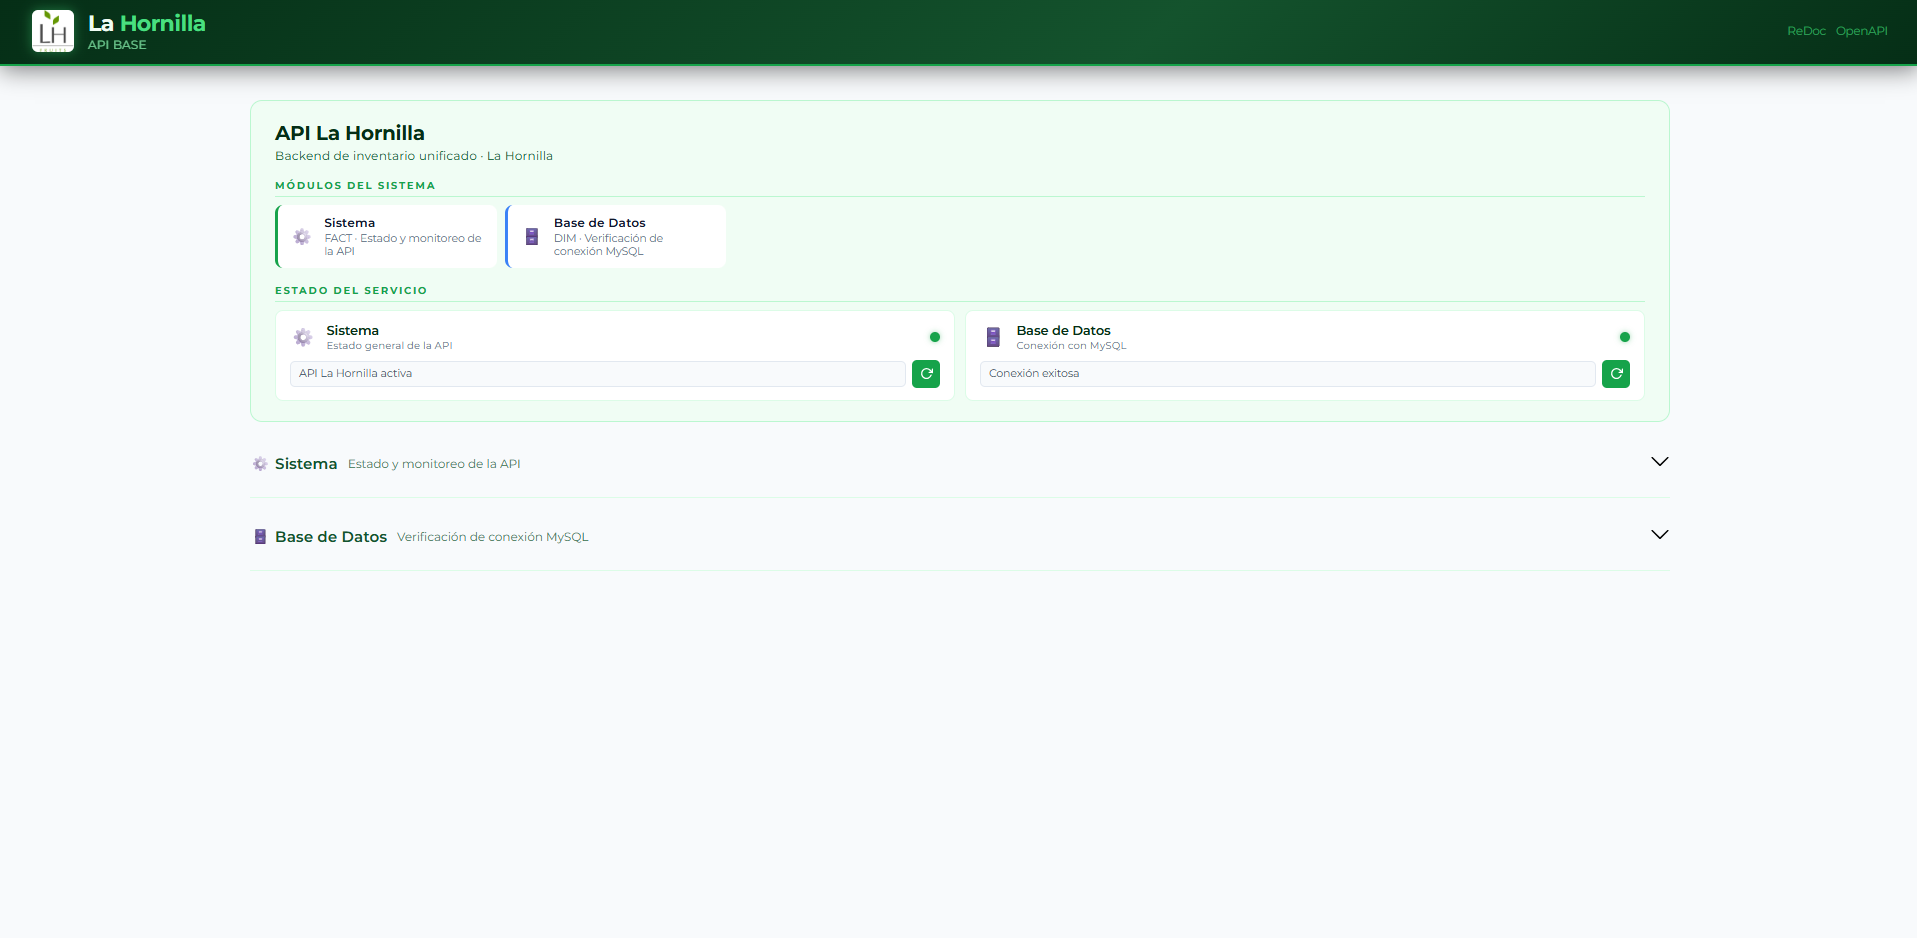
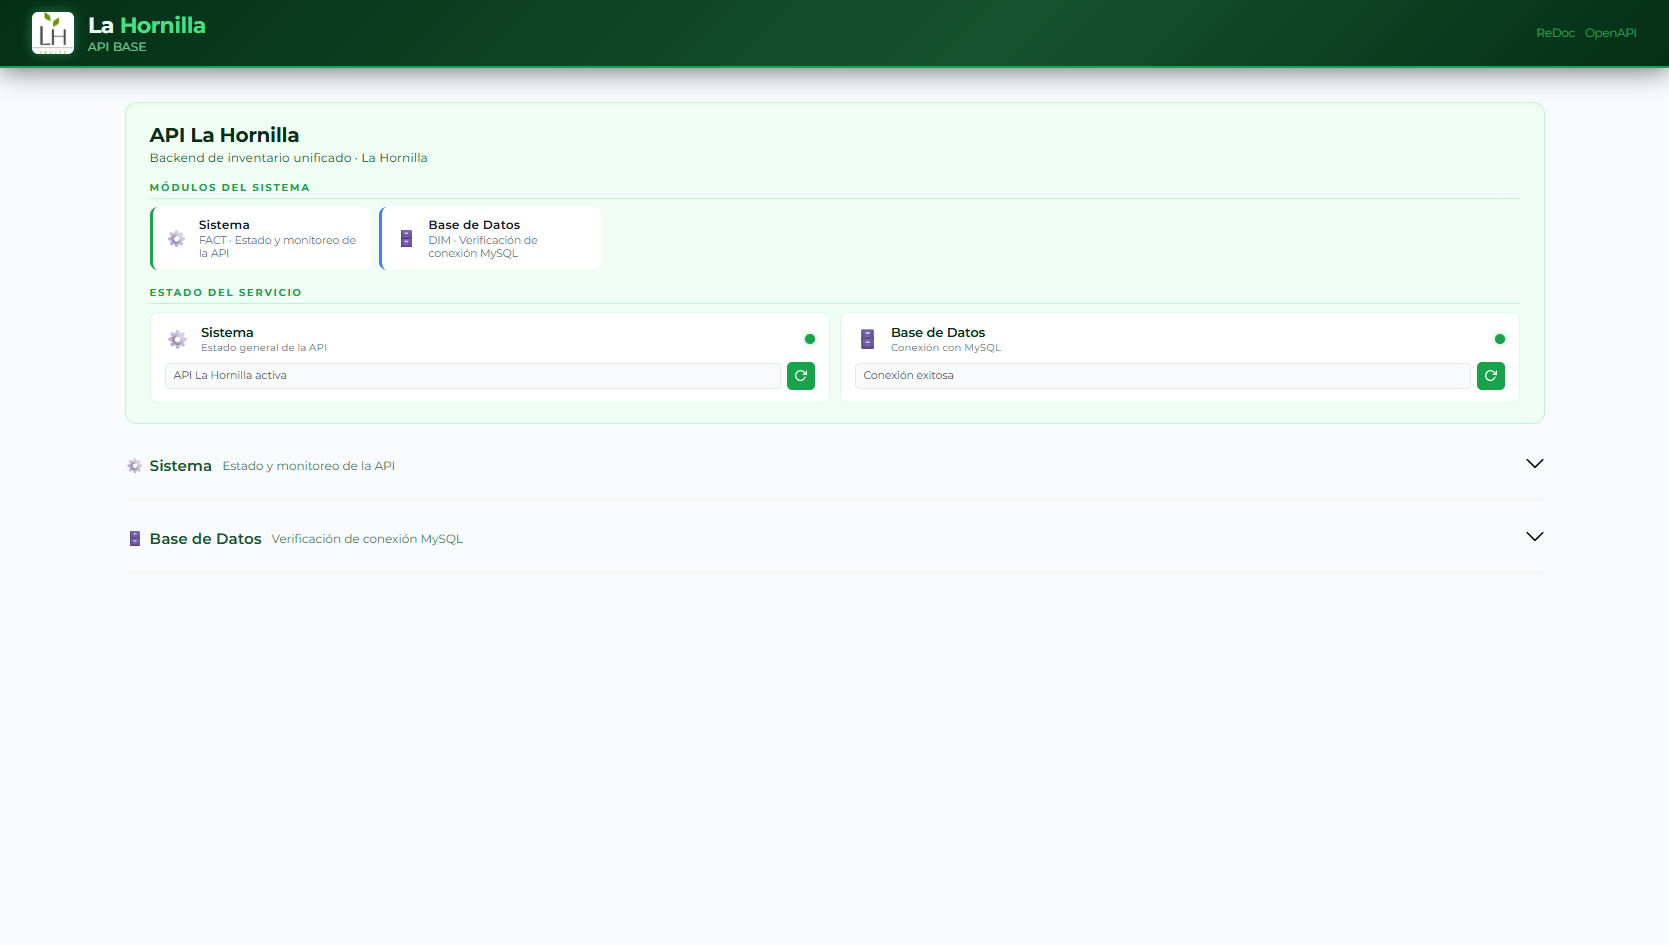
Mas cambios visuales.

diff --git a/script.js b/script.js
@@ -57,9 +57,17 @@ const proyectos = [
     link: "",
     imagenes: [
         "https://raw.githubusercontent.com/Straaizo/portafolio-dev/refs/heads/master/assets/images/InventarioLH/LOGIN.png",
-        "https://raw.githubusercontent.com/Straaizo/portafolio-dev/refs/heads/master/assets/images/InventarioLH/ENTRADA.png",
         "https://raw.githubusercontent.com/Straaizo/portafolio-dev/refs/heads/master/assets/images/InventarioLH/SALIDA.png",
-        ""
+        "https://raw.githubusercontent.com/Straaizo/portafolio-dev/refs/heads/master/assets/images/InventarioLH/ENTRADA.png",
+        "https://raw.githubusercontent.com/Straaizo/portafolio-dev/refs/heads/master/assets/images/InventarioLH/INVENTARIO.png",
+        "https://raw.githubusercontent.com/Straaizo/portafolio-dev/refs/heads/master/assets/images/InventarioLH/PRODUCTOS.png",
+        "https://raw.githubusercontent.com/Straaizo/portafolio-dev/refs/heads/master/assets/images/InventarioLH/EQUIPOS.png",
+        "https://raw.githubusercontent.com/Straaizo/portafolio-dev/refs/heads/master/assets/images/InventarioLH/CELULARES.png",
+        "https://raw.githubusercontent.com/Straaizo/portafolio-dev/refs/heads/master/assets/images/InventarioLH/TABLETS.png",
+        "https://raw.githubusercontent.com/Straaizo/portafolio-dev/refs/heads/master/assets/images/InventarioLH/IMPRESORAS.png",
+        "https://raw.githubusercontent.com/Straaizo/portafolio-dev/refs/heads/master/assets/images/InventarioLH/DETALLE%20EQUIPO.png",
+        "https://raw.githubusercontent.com/Straaizo/portafolio-dev/refs/heads/master/assets/images/InventarioLH/SWAGGER%20UI%20API.png"
+
     ]
   },
     {
@@ -68,12 +76,8 @@ const proyectos = [
     tecnologias: ["Python","JWT","FAST API", "SWAGGER UI"],
     link: "",
     imagenes: [
-      "https://raw.githubusercontent.com/Straaizo/portafolio-dev/refs/heads/master/assets/images/BenditoMarket/inicio.png",
-      "https://raw.githubusercontent.com/Straaizo/portafolio-dev/refs/heads/master/assets/images/BenditoMarket/ventas_realizadas.png",
-      "https://raw.githubusercontent.com/Straaizo/portafolio-dev/refs/heads/master/assets/images/BenditoMarket/realizar%20venta.png",
-      "https://raw.githubusercontent.com/Straaizo/portafolio-dev/refs/heads/master/assets/images/BenditoMarket/productos.png",
-      "https://raw.githubusercontent.com/Straaizo/portafolio-dev/refs/heads/master/assets/images/BenditoMarket/ingresar%20stock.png",
-      "https://raw.githubusercontent.com/Straaizo/portafolio-dev/refs/heads/master/assets/images/BenditoMarket/agregar%20categoria.png"
+        "https://raw.githubusercontent.com/Straaizo/portafolio-dev/refs/heads/master/assets/images/ApiLahornilla/InterfazSwaggerUI.png",
+        ""
     ]
   }
 ];
